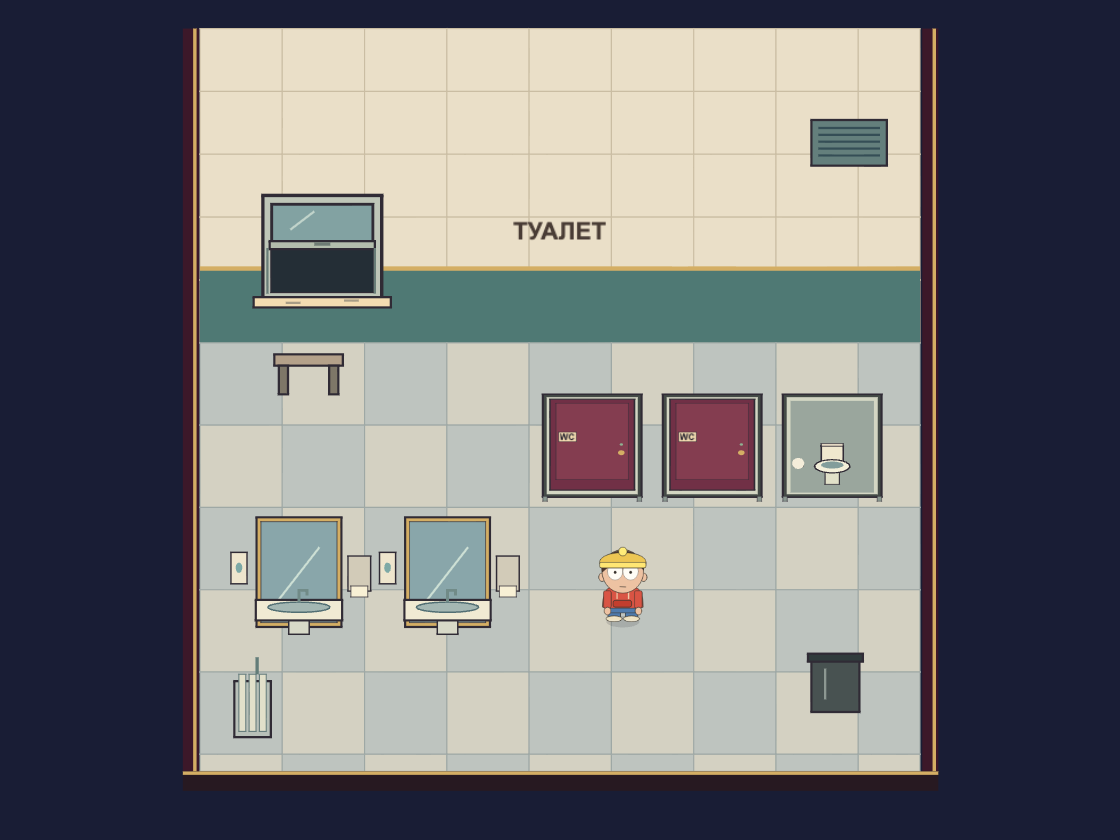
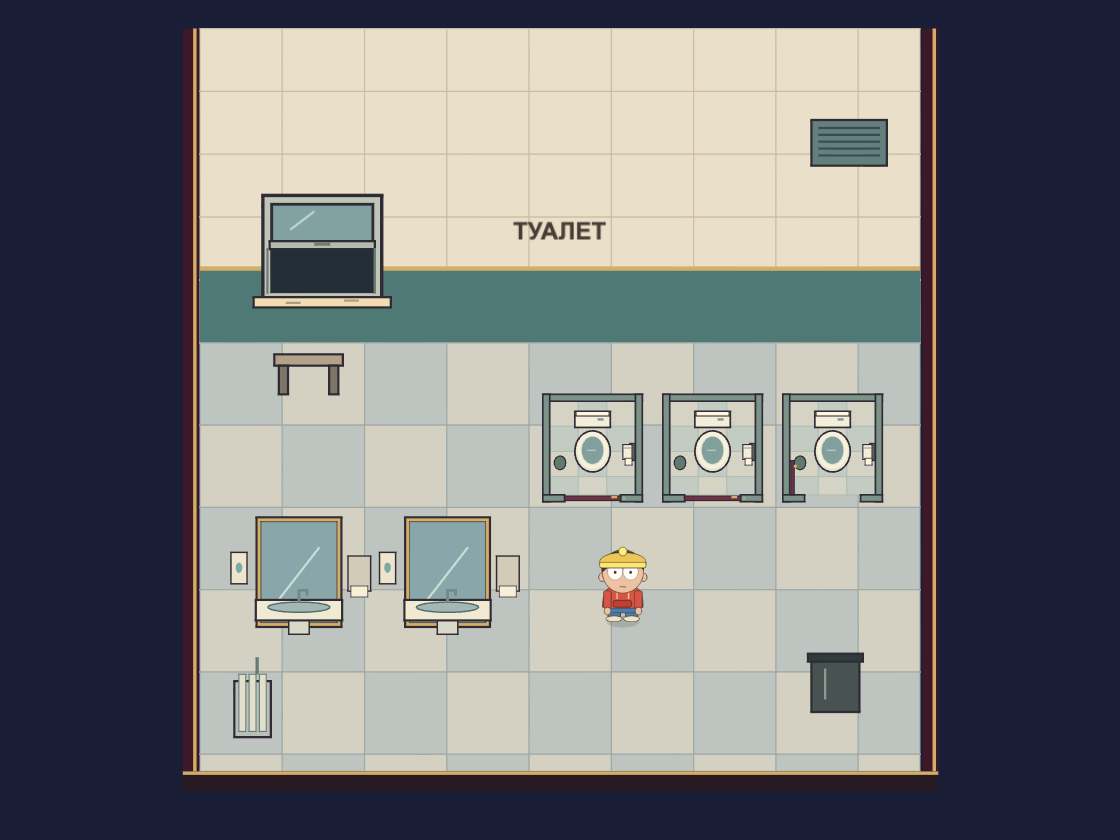
Show restroom cubicle contents in the top-down reference

Changed region(s): [[0.4688, 0.4643, 0.8125, 0.619]]

diff --git a/docs/concepts/casino-rooftop-toilet/reference-scene.ts b/docs/concepts/casino-rooftop-toilet/reference-scene.ts
@@ -11,12 +11,19 @@ export const TOILET_ENTRY={x:760,y:410,w:180,h:160,kind:'open-service-window',st
 export const TOILET_ROOM={width:740,height:610,floor:{...FLOOR,width:630,height:375},bounds:{...BOUNDS,right:670,bottom:530},spawn:{x:150,y:260},exit:{x:150,y:260},window:{x:110,y:46,w:104,h:92},step:{x:120,y:185,w:60,h:35}};
 const ink=0x302b35,cream=0xf3dcb1,gold=0xd4ae64,burgundy=0x713046,teal=0x315c64;
 const sinks=[{x:100,y:350,w:84,h:80},{x:230,y:350,w:84,h:80}];
-const stalls=[355,460,565].map(x=>({x,y:220,w:87,h:94}));
+const stalls=[355,460,565].map((x,i)=>({x,y:220,w:87,h:94,open:i===2}));
+const stallWalls:Obstacle[]=stalls.flatMap(p=>[
+  {x:p.x,y:p.y,w:p.w,h:6},
+  {x:p.x,y:p.y,w:6,h:p.h},{x:p.x+p.w-6,y:p.y,w:6,h:p.h},
+  {x:p.x,y:p.y+p.h-6,w:19,h:6},{x:p.x+p.w-19,y:p.y+p.h-6,w:19,h:6},
+  p.open?{x:p.x+7,y:p.y+p.h-36,w:3,h:30}:{x:p.x+19,y:p.y+p.h-5,w:p.w-38,h:4},
+  {x:p.x+28,y:p.y+15,w:31,h:52},
+]);
 const bin={x:590,y:450,w:42,h:48},radiator={x:85,y:465,w:32,h:55};
 const roomObstacles:Obstacle[]=[
   {x:0,y:0,w:TOILET_ROOM.width,h:BOUNDS.top-1},{x:0,y:0,w:BOUNDS.left-1,h:TOILET_ROOM.height},
   {x:TOILET_ROOM.bounds.right+1,y:0,w:5000,h:TOILET_ROOM.height},
-  {x:0,y:TOILET_ROOM.bounds.bottom+1,w:TOILET_ROOM.width,h:100},...sinks,...stalls,
+  {x:0,y:TOILET_ROOM.bounds.bottom+1,w:TOILET_ROOM.width,h:100},...sinks,...stallWalls,
   bin,radiator,TOILET_ROOM.step,
 ];
 
@@ -25,11 +32,11 @@ export function geometryChecks(){
   const overlap=[TOILET_ENTRY,TOILET_ENTRY.step].some(p=>ROOF_OBSTACLES.some(o=>p.x<o.x+o.w&&p.x+p.w>o.x&&p.y<o.y+o.h&&p.y+p.h>o.y));
   const roofPath=findPath(ROOF.spawn,TOILET_ENTRY.approach,roofObstacles);
   const perimeter=ROOF.loop.every((p,i)=>findPath(p,ROOF.loop[(i+1)%ROOF.loop.length],roofObstacles).length>0);
-  const targets=[...sinks.map(p=>({x:p.x+p.w/2,y:p.y+p.h+50})),...stalls.map(p=>({x:p.x+p.w/2,y:p.y+p.h+50})),TOILET_ROOM.exit];
+  const targets=[...sinks.map(p=>({x:p.x+p.w/2,y:p.y+p.h+50})),...stalls.map(p=>({x:p.x+p.w/2,y:p.y+p.h+50})),...stalls.filter(p=>p.open).map(p=>({x:p.x+p.w/2,y:p.y+p.h-4})),TOILET_ROOM.exit];
   const approaches=targets.map(p=>({point:p,walkable:walkable(p.x,p.y,roomObstacles,16),path:findPath(TOILET_ROOM.spawn,p,roomObstacles).length>0}));
   const roofApproaches=[TOILET_ENTRY.approach,TOILET_ENTRY.trigger].every(p=>walkable(p.x,p.y,roofObstacles,16)&&findPath(ROOF.spawn,p,roofObstacles).length>0);
   if(overlap||!roofPath.length||!roofApproaches||!perimeter||approaches.some(p=>!p.walkable||!p.path))throw Error('Reference geometry has an obstructed approach: '+JSON.stringify({overlap,roofApproaches,perimeter,approaches}));
-  return {roof:{width:ROOF.width,height:ROOF.height,deck:ROOF.deck,entry:TOILET_ENTRY,existingPropsUnmoved:true,noOverlap:!overlap,approachReachable:roofApproaches,perimeterReachable:perimeter},room:{...TOILET_ROOM,proposed:true,stalls,sinks,approaches,obstacles:roomObstacles,floorArea:TOILET_ROOM.floor.width*TOILET_ROOM.floor.height,previousFloorArea:1210*1145},projection:'Same camera fit and upright sprites as RoomScene.resizeView',character:{scale:CHARACTER_SCALE,width:96*CHARACTER_SCALE,height:144*CHARACTER_SCALE}};
+  return {roof:{width:ROOF.width,height:ROOF.height,deck:ROOF.deck,entry:TOILET_ENTRY,existingPropsUnmoved:true,noOverlap:!overlap,approachReachable:roofApproaches,perimeterReachable:perimeter},room:{...TOILET_ROOM,proposed:true,stalls,stallView:'Top-down floor plan with visible fixtures in every cubicle and thin partition caps',sinks,approaches,obstacles:roomObstacles,floorArea:TOILET_ROOM.floor.width*TOILET_ROOM.floor.height,previousFloorArea:1210*1145},projection:'Same camera fit and upright sprites as RoomScene.resizeView',character:{scale:CHARACTER_SCALE,width:96*CHARACTER_SCALE,height:144*CHARACTER_SCALE}};
 }
 
 export function startReference(mode:'roof'|'room',close:boolean){
@@ -85,7 +92,7 @@ export function startReference(mode:'roof'|'room',close:boolean){
       const step=this.add.graphics().setDepth(TOILET_ROOM.step.y+TOILET_ROOM.step.h);
       this.box(step,120,185,60,10,0xb4a18a);for(const x of [124,168])this.box(step,x,195,8,25,0x7e7768);
       for(const p of sinks)this.sink(p.x,p.y);
-      stalls.forEach((p,i)=>this.stall(p.x,p.y,i===2));
+      stalls.forEach(p=>this.stall(p));
       const trash=this.add.graphics().setDepth(bin.y+bin.h);this.box(trash,bin.x,bin.y,bin.w,bin.h,0x485251);this.box(trash,bin.x-3,bin.y-3,bin.w+6,7,0x303b3c);trash.lineStyle(2,0x8d9892).lineBetween(bin.x+12,bin.y+10,bin.x+12,bin.y+37);
       const heat=this.add.graphics().setDepth(radiator.y+radiator.h);this.box(heat,radiator.x,radiator.y+6,radiator.w,radiator.h-6,0xb8c0b8);for(let x=radiator.x+4;x<radiator.x+radiator.w-3;x+=9)this.box(heat,x,radiator.y,6,radiator.h-5,0xe2e0ca,0x687e7d,1);heat.lineStyle(3,0x627c78).lineBetween(105,450,105,465);
       const vent=this.add.graphics().setDepth(1);this.box(vent,590,-20,66,40,0x647f7c);for(let y=-13;y<16;y+=6)vent.lineStyle(2,0x354e56).lineBetween(596,y,650,y);
@@ -102,22 +109,35 @@ export function startReference(mode:'roof'|'room',close:boolean){
       this.box(g,x-28,y+13,22,43,0xeee5cd,ink,2);g.fillStyle(0x7da9a6).fillEllipse(x-17,y+34,9,14);
       this.box(g,x+132,y+18,31,48,0xd2cbb8,ink,2);this.box(g,x+136,y+59,23,15,0xf8f0d5,ink,1);
     }
-    stall(x:number,y:number,open:boolean){
-      const g=this.add.graphics().setDepth(y+94).setPosition(x,y).setScale(.48,.36);
-      x=0;y=0;
-      this.box(g,x,y,180,250,0x444b47,ink,4);this.box(g,x+7,y+7,166,236,0xd3d6c3,ink,0);
-      if(open){
-        this.box(g,x+14,y+16,152,223,0x9aa69d,ink,0);
-        this.box(g,x+70,y+125,40,40,0xf0e8ce,ink,3);this.box(g,x+70,y+120,40,6,0xfff2d8);
-        this.box(g,x+77,y+189,26,30,0xe2e1c9,ink,2);g.fillStyle(0xf3efd9).fillEllipse(x+90,y+175,64,32);g.lineStyle(3,ink).strokeEllipse(x+90,y+175,64,32);g.fillStyle(0x829d9b).fillEllipse(x+90,y+172,41,17);
-        this.box(g,x+20,y+168,17,8,gold,ink,1);g.fillStyle(0xf4edda).fillEllipse(x+28,y+168,22,27);
-      }else{
-        this.box(g,x+13,y+12,154,221,burgundy,ink,3);this.box(g,x+24,y+22,132,185,0x843d50,ink,1);
-        this.box(g,x+29,y+92,32,23,cream,ink,1);
-        this.label(g.x+45*.48,g.y+104*.36,'WC',8,'#302b35',g.depth+1);
-        g.fillStyle(gold).fillCircle(x+143,y+142,6);g.fillStyle(0x8db191).fillCircle(x+143,y+122,3);
+    stall(p:typeof stalls[number]){
+      const {x,y,w,h,open}=p,g=this.add.graphics().setDepth(y+h);
+      // Cutaway floor plan: the near door never covers the contents from above.
+      this.box(g,x+6,y+6,w-12,h-12,0xd5d3c4,ink,0);
+      for(let dy=6;dy<h-6;dy+=22)for(let dx=6;dx<w-6;dx+=25){
+        this.box(g,x+dx,y+dy,Math.min(25,w-6-dx),Math.min(22,h-6-dy),((Math.floor(dx/25)+Math.floor(dy/22))%2)?0xc2ccc3:0xd5d3c4,0xadb9af,.7);
       }
-      for(const dx of [0,172])this.box(g,x+dx,y+248,8,12,0x8b9991,ink,1);
+      this.box(g,x+28,y+15,31,14,0xf3eed9,ink,1.5);this.box(g,x+29,y+15,29,4,0xfff6df,ink,1);
+      this.box(g,x+48,y+21,5,2,0x7d9391,ink,0);
+      g.fillStyle(0xe6e5d1).fillEllipse(x+43.5,y+50,31,36);
+      g.lineStyle(1.5,ink).strokeEllipse(x+43.5,y+50,31,36);
+      g.fillStyle(0x809f9d).fillEllipse(x+43.5,y+49,19,24);
+      g.lineStyle(3,0xf7f1dc).strokeEllipse(x+43.5,y+49,24,29);
+      g.lineStyle(1,0xc4d5ca).lineBetween(x+39,y+49,x+46,y+49);
+      this.box(g,x+76,y+43,4,15,0x697e77,ink,1);
+      this.box(g,x+70,y+44,8,13,0xf3edda,ink,1);g.lineStyle(1,0x9c9d90).lineBetween(x+71,y+47,x+77,y+47);
+      this.box(g,x+72,y+56,6,6,0xfff6e2,ink,.7);
+      g.fillStyle(0x617a70).fillEllipse(x+15,y+60,10,12);g.lineStyle(1,ink).strokeEllipse(x+15,y+60,10,12);
+      for(const [dx,dy,dw,dh]of [[0,0,w,6],[0,0,6,h],[w-6,0,6,h],[0,h-6,19,6],[w-19,h-6,19,6]]){
+        this.box(g,x+dx,y+dy,dw,dh,0x7b9388,ink,1.5);
+      }
+      if(open){
+        this.box(g,x+7,y+h-36,3,30,burgundy,ink,1);
+        g.fillStyle(gold).fillCircle(x+11,y+h-31,1.5);
+      }else{
+        this.box(g,x+19,y+h-5,w-38,4,burgundy,ink,1);
+        this.box(g,x+w-27,y+h-5,5,2,gold,ink,0);
+        g.fillStyle(0x8db191).fillCircle(x+w-16,y+h-3,1.5);
+      }
     }
   }
   (window as any).__referenceReady=false;

diff --git a/docs/concepts/casino-rooftop-toilet/README.md b/docs/concepts/casino-rooftop-toilet/README.md
@@ -11,7 +11,9 @@
 
 У туалета ещё нет реализованной карты. Здесь предложена отдельная комната 740 на 610, пол 630 на 375. По сравнению с предыдущим макетом 1320 на 1380 площадь пола уменьшена примерно на 83%. Верх стены и начало пола следуют `HALL_WALL` и `FLOOR`; правая и нижняя границы адаптированы под компактную комнату. Сетка пола прямоугольная, персонаж использует штатный атлас и неизменный `CHARACTER_SCALE`. Формулы общего вида и ближней камеры взяты из `RoomScene.resizeView`. Комната показана как проект плана, а не как уже существующая геометрия.
 
-Справа находятся три кабинки с округлённым занимаемым прямоугольником 87 на 94 вместо прежних 180 на 190. Слева две уменьшенные раковины с зеркалами, мылом и полотенцами. По краю стоят небольшие урна и радиатор; скамейка и большой пустой участок убраны. На задней стене показано то же окно и подставка для возвращения на крышу. Южного дверного выхода больше нет. Центральный проход свободен. Коллизии и точки подхода пока относятся только к проверяемому макету.
+Справа находятся три кабинки с округлённым занимаемым прямоугольником 87 на 94 вместо прежних 180 на 190. Кабинки показаны сверху: тонкие верхние грани перегородок окружают открытый для обзора пол. Во всех трёх видны бачок, чаша унитаза, держатель бумаги и маленькая урна. Дверцы проходят короткими створками вдоль ближнего края, поэтому закрытая дверь не перекрывает содержание кабинки. Третья створка открыта вдоль перегородки; путь к её порогу проверен с коллизиями стен и сантехники.
+
+Слева две уменьшенные раковины с зеркалами, мылом и полотенцами. По краю стоят небольшие урна и радиатор; скамейка и большой пустой участок убраны. На задней стене показано то же окно и подставка для возвращения на крышу. Южного дверного выхода больше нет. Центральный проход свободен. Коллизии и точки подхода пока относятся только к проверяемому макету.
 
 Команда из корня текущего checkout:
 
